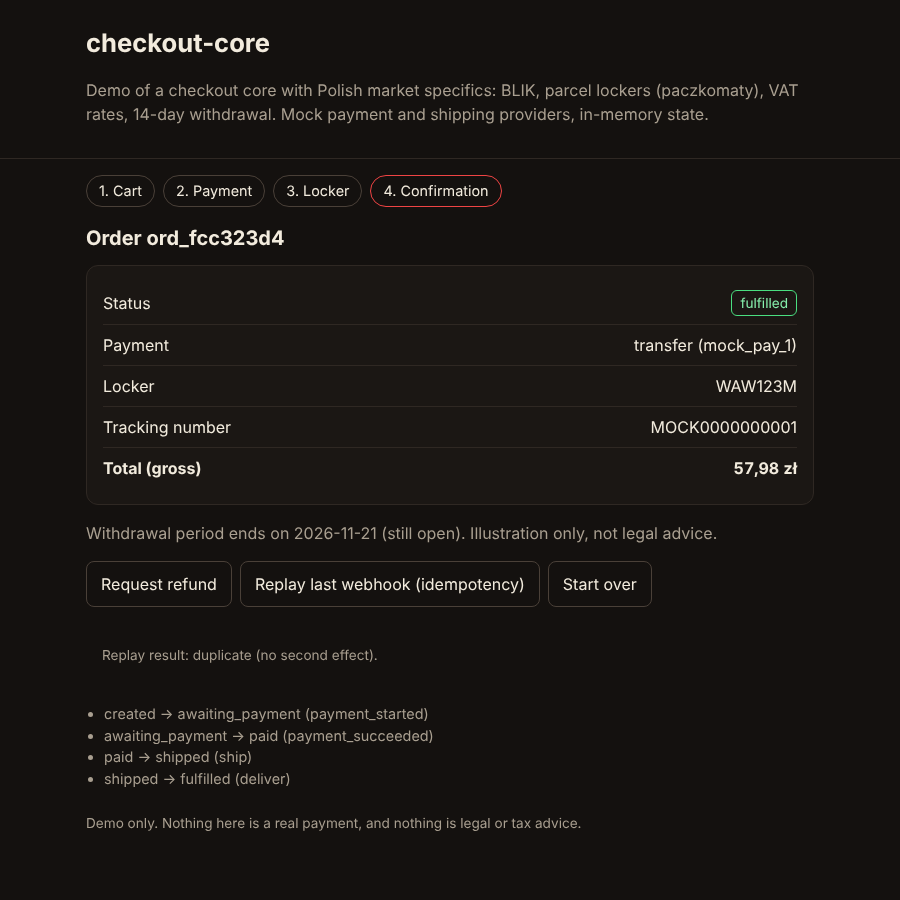
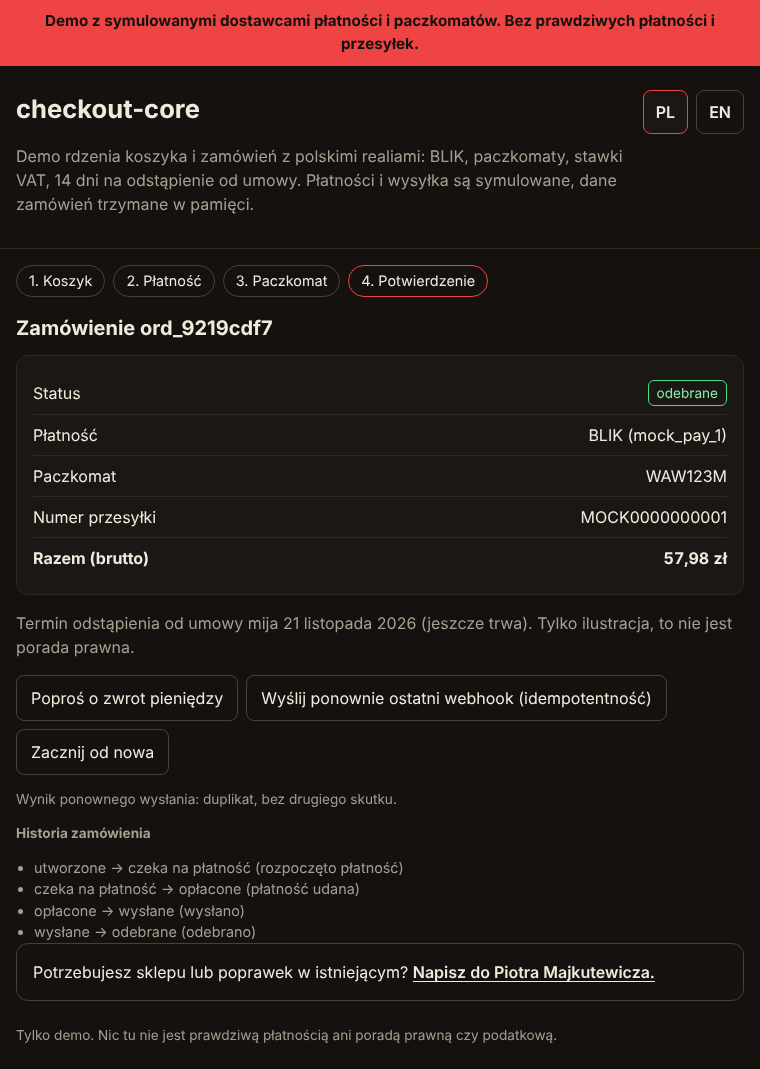
Refresh the demo screenshot and document languages

diff --git a/src/demo/assets.ts b/src/demo/assets.ts
@@ -75,7 +75,8 @@ body{margin:0;background:var(--bg);color:var(--fg);font:16px/1.5 system-ui,-appl
 h1{margin:0 0 4px;font-size:1.6rem}
 h2{margin:0 0 12px;font-size:1.25rem}
 .muted{color:var(--muted)}
-.small{font-size:.85rem;padding:24px 16px}
+.small{font-size:.85rem}
+footer.small{padding:24px 16px}
 .steps{display:flex;gap:8px;list-style:none;padding:0;margin:0 0 16px;flex-wrap:wrap}
 .steps li{border:1px solid var(--line);border-radius:999px;padding:4px 12px;color:var(--muted);font-size:.9rem}
 .steps li.active{border-color:var(--accent);color:var(--fg)}

diff --git a/README.md b/README.md
@@ -10,6 +10,14 @@ The worked example is the Polish market, because that is where it was built for:
 
 Intended address: **https://checkout.piotrmajkutewicz.pl**. It is only live after the Worker has been deployed to that domain (see [Deploying the demo](#deploying-the-demo)); until then the link does not work. The demo uses simulated payment and parcel-locker providers: no real payments or shipments, ever. It is deliberately [not indexed by search engines](#not-indexed-on-purpose).
 
+## Languages
+
+The demo UI is **Polish by default**, whatever the browser's language, and can be switched to English with the PL / EN buttons in the header. The choice is remembered in `localStorage` (the page works without it), and `?lang=pl` or `?lang=en` in the address takes precedence and is saved as the choice. `<html lang>` follows the selected language.
+
+All user-facing texts live in two dictionaries, `src/i18n/pl.ts` and `src/i18n/en.ts`; a test checks that both have the same keys, no empty texts and the same placeholders. The library core (VAT, cart, state machine, providers) contains no UI texts for the interface and does not depend on the language. The demo API returns a stable error `code` (plus a short English `error` for people reading raw JSON), and the UI translates the code. A few strings produced by the mock providers (for example the reason in a recorded webhook anomaly) stay English in the data; the UI maps them to its own texts.
+
+Amounts are always PLN; only the conventions change with the language: Polish shows `1 234,56 zł` (non-breaking space as thousands separator, decimal comma), English shows `PLN 1,234.56`. The rule is in `src/i18n/money.ts`, and the same function runs in the browser and in the tests.
+
 ## What it is for
 
 It is a portfolio piece showing how I approach the unglamorous, expensive-to-get-wrong parts of an online shop:
